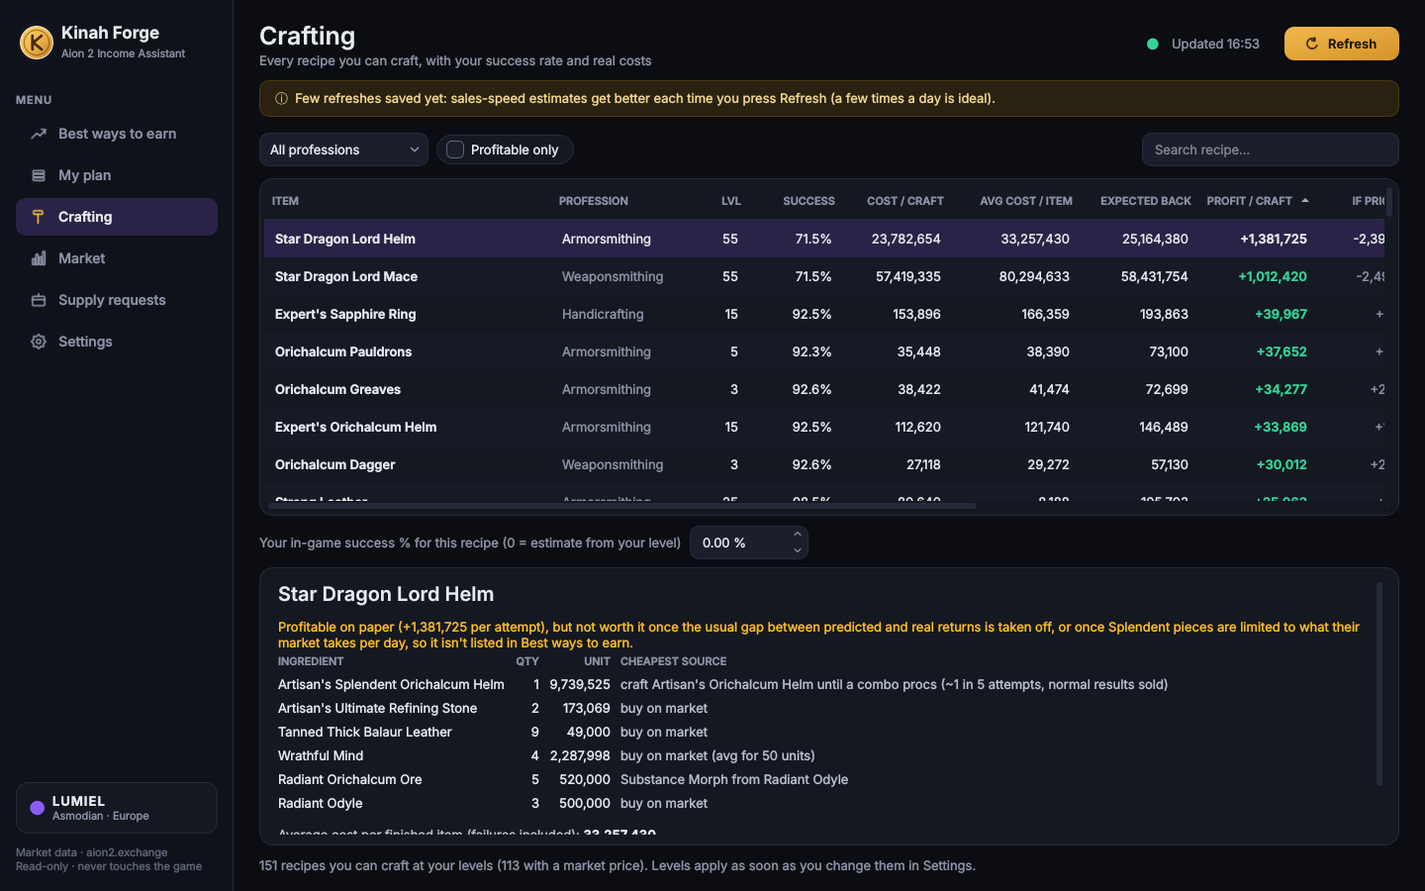
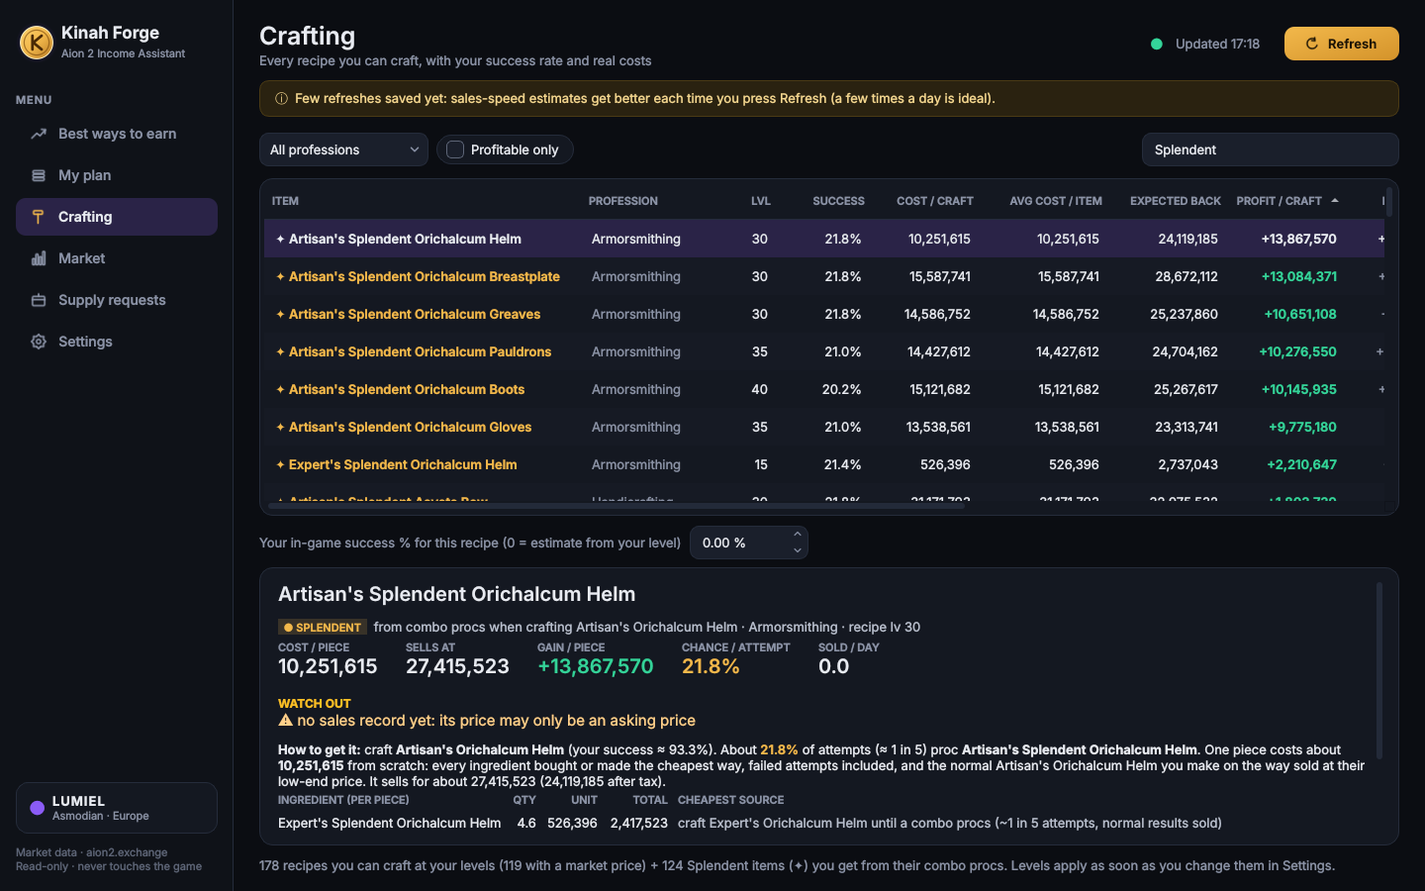
Income Assistant: every craft and every Splendent in the Crafting page
- Each Splendent you can get from combo procs (Splendent, Expert's Splendent,
  Artisan's Splendent, Splendent Star Dragon Lord ...) has its own row: chance
  per attempt, cost per piece from scratch, market price, gain per piece and
  the ingredient chain per piece.
- Recipes needing an ingredient nobody sells and no recipe makes (drops,
  NPC/quest "(Bound)" items) are listed with it named and left out of the
  cost; they never feed other costs and are never recommended.
- Unpriced crafts still get their Splendent's cost.
- Splendent items get price-history details on refresh.
- Audit: on 239 snapshots of five servers (39,160 item checks) every
  craftable or combo item on the market now appears.

Claude-Session: https://claude.ai/code/session_0159oSubnBYt4Xz9pRDyQSQx

diff --git a/income-assistant/aion_income/crafting.py b/income-assistant/aion_income/crafting.py
@@ -125,6 +125,7 @@ class CraftResult:
     combo_best: str = ""           # "sell" or "craft"
     combo_use_outlet: tuple = ()   # (next-tier item key, its success, its output qty, Splendents per craft)
     combo_use_ok: bool = True      # the next-tier item has a trusted price and a sales record
+    missing: list = field(default_factory=list)  # ingredients you can't buy or craft (drops, NPC/quest items)
     combo_cost: float | None = None   # kinah per Splendent made this way from scratch (normal results sold)
     combo_price: float | None = None  # what that Splendent sells for on the market (before tax)
 
@@ -133,6 +134,63 @@ class CraftResult:
         """Average kinah per finished item, failed attempts included."""
         made = self.success * self.recipe.out_qty
         return self.cost / made if made > 0 else float("inf")
+
+
+@dataclass
+class SplendentRow:
+    """A Splendent (combo) item shown in its own row: you get it by crafting `parent` and hoping
+    for the combo proc. Quacks like a CraftResult for the Crafting table."""
+    parent: CraftResult
+    name: str
+    out_key: str
+    success: float          # chance per attempt of the parent craft to give this Splendent
+    cost: float             # kinah per piece made from scratch (normal results sold on the way)
+    sell: float | None      # market price (before tax)
+    net: float | None       # what one piece brings after tax
+    sales_per_day: float | None
+    lines: list             # parent ingredients per piece (attempts per piece included)
+    is_splendent: bool = True
+    combo_name: str = ""
+    combo_cost: float | None = None
+    combo_price: float | None = None
+    combo_value: float = 0.0
+    combo_best: str = ""
+    combo_use_name: str = ""
+    combo_use: float | None = None
+    combo_sell: float | None = None
+    notes: list = field(default_factory=list)
+
+    @property
+    def recipe(self):
+        return self.parent.recipe
+
+    @property
+    def profession(self):
+        return self.parent.profession
+
+    @property
+    def priced(self) -> bool:
+        return self.net is not None
+
+    @property
+    def avg_cost_item(self) -> float:
+        return self.cost
+
+    @property
+    def ev(self) -> float:
+        return self.net or 0.0
+
+    @property
+    def profit(self) -> float:
+        return (self.net - self.cost) if self.net is not None else 0.0
+
+    @property
+    def profit_pessimistic(self) -> float:
+        return self.profit
+
+    @property
+    def attempts_per_piece(self) -> float:
+        return 1 / self.success if self.success > 0 else float("inf")
 
 
 class CraftContext:
@@ -201,9 +259,11 @@ class CraftContext:
                 best, used = b, alt
         return used, best
 
-    def run_inputs(self, r: Recipe, free: frozenset = frozenset()):
+    def run_inputs(self, r: Recipe, free: frozenset = frozenset(), allow_missing: bool = False):
         """Cost per attempt and ingredient lines; `free` items are ones you already own (e.g. a
-        Splendent from a combo proc) and cost nothing here."""
+        Splendent from a combo proc) and cost nothing here. With allow_missing, an ingredient that
+        can't be bought or crafted (a drop, an NPC or quest item) is listed at no cost instead of
+        making the recipe impossible."""
         cost = float(r.gold or 0)
         lines = []
         for key, qty, alt in r.inputs:
@@ -211,6 +271,11 @@ class CraftContext:
                 lines.append(Line(key, self.book.name(key), qty, 0.0, Source(0.0, "own", "your Splendent from a combo")))
                 continue
             used, src = self._offer(key, alt)
+            if src is None and allow_missing:
+                lines.append(Line(key, self.book.name(key), qty, 0.0,
+                                  Source(0.0, "missing", "not on the market and no recipe: NPC shop, drop or quest "
+                                                         "item, not included in the cost")))
+                continue
             if src is None:
                 return None
             if src.how == "bulk" and qty <= 3:
@@ -302,18 +367,24 @@ class CraftContext:
             return None
         run = self.run_inputs(r, free)
         if not run:
-            return None
+            run = self.run_inputs(r, free, allow_missing=True)  # still show it, with what's missing named
         cost, lines = run
+        missing = [l.name for l in lines if l.source.how == "missing"]
         out = self.stats.get(r.out)
         name = self._name(r.out)
         prof = PROFESSIONS.get(r.profession, r.profession)
         if not out or out.sell_price is None or out.expected_sell is None:
             # nobody has listed it in the history we have: show what it costs, not a profit
+            csrc = self.combo_source(r, cost, s) if r.combo else None
+            cst = self.stats.get(r.combo) if r.combo else None
             return CraftResult(
-                recipe=r, name=name, profession=prof, success=s, combo_rate=0.0, cost=cost, lines=lines,
-                p_fail=1 - s, p_plain=s, p_combo=0.0, plain_value=0.0, combo_value=0.0, ev=0.0, profit=0.0,
-                ev_pessimistic=0.0, profit_pessimistic=0.0, profit_plain_only=0.0, out_key=r.out, combo_key=None,
-                notes=["no market price for it yet"], priced=False, price_ok=False)
+                recipe=r, name=name, profession=prof, success=s,
+                combo_rate=combo_success(self.book, r, int(self.levels.get(r.profession, 0)), s), cost=cost,
+                lines=lines, p_fail=1 - s, p_plain=s, p_combo=0.0, plain_value=0.0, combo_value=0.0, ev=0.0,
+                profit=0.0, ev_pessimistic=0.0, profit_pessimistic=0.0, profit_plain_only=0.0, out_key=r.out,
+                combo_key=None, notes=["no market price for it yet"], priced=False, price_ok=False, missing=missing,
+                combo_name=self._name(r.combo) if r.combo else "", combo_cost=csrc.cost if csrc else None,
+                combo_price=cst.sell_price if cst else None)
         cs = combo_success(self.book, r, int(self.levels.get(r.profession, 0)), s)
         cp = r.combo_chance if r.combo else 0.0
         combo_st = self.stats.get(r.combo) if r.combo else None
@@ -345,6 +416,8 @@ class CraftContext:
             notes.append("Splendent version has no reliable price or use, counted as a normal item")
         if any(l.source.how == "npc" and "estimated" in l.source.detail for l in lines):
             notes.append("uses an NPC item with an estimated price")
+        if missing:
+            notes.append("cost leaves out " + ", ".join(missing) + " (not on the market, no recipe)")
         csrc = self.combo_source(r, cost, s) if r.combo else None
         return CraftResult(
             recipe=r, name=name, profession=prof,
@@ -355,7 +428,7 @@ class CraftContext:
             price_ok=out.trusted, combo_name=self._name(r.combo) if r.combo else "",
             combo_sell=sell, combo_use=use, combo_use_name=use_name, combo_best=best,
             combo_use_outlet=outlet if best == "craft" else (), combo_use_ok=use_ok or best != "craft",
-            combo_cost=csrc.cost if csrc else None,
+            combo_cost=csrc.cost if csrc else None, missing=missing,
             combo_price=(combo_st.sell_price if combo_st else None),
         )
 
@@ -398,6 +471,35 @@ class CraftContext:
             if k not in best or res.profit > best[k].profit:
                 best[k] = res
         return sorted(best.values(), key=lambda c: c.profit, reverse=True)
+
+    def splendent_rows(self, crafts: list[CraftResult]) -> list[SplendentRow]:
+        """One row per Splendent item you can get through a combo proc, priced from scratch."""
+        rows: dict[str, SplendentRow] = {}
+        for c in crafts:
+            r = c.recipe
+            if not r.combo or not r.combo_chance or c.combo_cost is None:
+                continue
+            p = c.success * r.combo_chance * combo_success(self.book, r, int(self.levels.get(r.profession, 0)),
+                                                             c.success)
+            if p <= 0:
+                continue
+            st = self.stats.get(r.combo)
+            sell = st.sell_price if st else None
+            net = st.expected_sell * self.keep if st and st.expected_sell else None
+            per = 1 / p
+            lines = [Line(l.key, l.name, l.qty * per, l.unit, l.source) for l in c.lines]
+            row = SplendentRow(parent=c, name=self._name(r.combo), out_key=r.combo, success=p, cost=c.combo_cost,
+                               sell=sell, net=net, sales_per_day=st.sales_per_day if st else None, lines=lines)
+            if c.missing:
+                row.notes.append("cost leaves out " + ", ".join(c.missing) + " (not on the market, no recipe)")
+            if st is None or st.sell_price is None:
+                row.notes.append("not on the market right now")
+            elif not st.trusted or not (st.sales_per_day or 0) > 0:
+                row.notes.append("no sales record yet: its price may only be an asking price")
+            cur = rows.get(r.combo)
+            if cur is None or row.cost < cur.cost:
+                rows[r.combo] = row
+        return sorted(rows.values(), key=lambda x: x.profit, reverse=True)
 
     def cheapest_source(self, key: str) -> Source | None:
         return self.acq.get(key)

diff --git a/income-assistant/aion_income/gui/main_window.py b/income-assistant/aion_income/gui/main_window.py
@@ -441,6 +441,43 @@ class MainWindow(QMainWindow):
         o = selected_row(self.best_view)
         self.best_detail.setHtml(self.opportunity_html(o) if o else self._empty_detail("Select a row."))
 
+    def splendent_html(self, sp) -> str:
+        """How to get a Splendent item and what one costs from scratch."""
+        p, c = sp.parent, sp
+        out = [f"<h2>{esc(sp.name)}</h2>",
+               f"<p>{pill_html('Splendent', theme.GOLD)}&nbsp;&nbsp;<span class='muted'>from combo procs when crafting "
+               f"{esc(p.name)} · {esc(p.profession.split(' (')[0])} · recipe lv {p.recipe.level}</span></p>",
+               "<table cellspacing=0><tr>",
+               stat_cell("Cost / piece", kinah(sp.cost), theme.TEXT),
+               stat_cell("Sells at", kinah(sp.sell) if sp.sell else "—", theme.TEXT),
+               stat_cell("Gain / piece", kinah(sp.profit, True) if sp.priced else "—",
+                         theme.GREEN if sp.profit > 0 else theme.RED),
+               stat_cell("Chance / attempt", f"{sp.success:.1%}", theme.GOLD),
+               stat_cell("Sold / day", self._sales_text(sp.out_key)),
+               "</tr></table>"]
+        if sp.notes:
+            out.append("<p><span class='warnhead'>WATCH OUT</span><br>"
+                       + "<br>".join(f"<span class='warn'>⚠ {esc(n)}</span>" for n in sp.notes) + "</p>")
+        out.append(
+            f"<p><b>How to get it:</b> craft <b>{esc(p.name)}</b> (your success ≈ {p.success:.1%}). About "
+            f"<span class='gold'>{sp.success:.1%}</span> of attempts (≈ 1 in {sp.attempts_per_piece:.0f}) proc "
+            f"<b>{esc(sp.name)}</b>. One piece costs about <b>{kinah(sp.cost)}</b> from scratch: every ingredient "
+            f"bought or made the cheapest way, failed attempts included, and the normal {esc(p.name)} you make on "
+            f"the way sold at their low-end price"
+            + (f". It sells for about {kinah(sp.sell)} ({kinah(sp.net)} after tax)." if sp.sell else ".")
+            + "</p>")
+        out.append("<table cellspacing=0><tr><th>INGREDIENT (PER PIECE)</th><th align=right>QTY</th>"
+                   "<th align=right>UNIT</th><th align=right>TOTAL</th><th>CHEAPEST SOURCE</th></tr>")
+        for line in sp.lines:
+            out.append(f"<tr><td>{esc(line.name)}</td><td align=right>{line.qty:,.1f}</td>"
+                       f"<td align=right>{kinah(line.unit)}</td><td align=right>{kinah(line.unit * line.qty)}</td>"
+                       f"<td class='muted'>{esc(line.source.detail)}</td></tr>")
+        out.append("</table>")
+        if c.parent.combo_best:
+            out.append(f"<p class='muted'>Its profit is also counted in {esc(p.name)}'s row (Best ways to earn) "
+                       f"when it has real buyers.</p>")
+        return "".join(out)
+
     def craft_extra_html(self, c) -> str:
         """Average cost per finished item, and what to do with Splendent pieces from combo procs."""
         out = [f"<p><span class='muted'>Average cost per finished item (failures included):</span> "
@@ -739,21 +776,27 @@ class MainWindow(QMainWindow):
         top.addWidget(self.craft_search)
         lay.addLayout(top)
         cols = [
-            Column("Item", lambda c: c.name.lower(), lambda c: c.name, width=290, bold=True),
+            Column("Item", lambda c: c.name.lower(), lambda c: ("✦ " + c.name) if getattr(c, "is_splendent", False) else c.name,
+                   width=320, bold=True, color=lambda c: theme.GOLD if getattr(c, "is_splendent", False) else None,
+                   tip=lambda c: (f"Splendent: you get it from combo procs when crafting {c.parent.name}"
+                                  if getattr(c, "is_splendent", False) else "")),
             Column("Profession", lambda c: c.profession, lambda c: c.profession.split(" (")[0], width=140,
                    color=lambda c: theme.MUTED),
             Column("Lvl", lambda c: c.recipe.level, align="right", width=60),
             Column("Success", lambda c: c.success, lambda c: f"{c.success:.1%}"
                    + (" ✎" if c.recipe.id in self.settings.overrides else ""), align="right", width=95,
                    color=lambda c: theme.VIOLET if c.recipe.id in self.settings.overrides else None,
-                   tip=lambda c: "Estimated from your level; set your in-game value below"),
+                   tip=lambda c: (f"Chance per {c.parent.name} attempt to get this Splendent (≈ 1 in "
+                                  f"{c.attempts_per_piece:.0f})" if getattr(c, "is_splendent", False)
+                                  else "Estimated from your level; set your in-game value below")),
             Column("Cost / craft", lambda c: c.cost, lambda c: kinah(c.cost), align="right"),
             Column("Avg cost / item", lambda c: c.avg_cost_item, lambda c: kinah(c.avg_cost_item), align="right",
                    width=130, tip=lambda c: "Average kinah per finished item, failed attempts included"),
             Column("Expected back", lambda c: c.ev, lambda c: kinah(c.ev) if c.priced else "no price", align="right",
                    width=120),
             Column("Profit / craft", lambda c: c.profit if c.priced else float("-inf"),
-                   lambda c: kinah(c.profit, True) if c.priced else "—", align="right", bold=True,
+                   lambda c: (kinah(c.profit, True) + (" *" if getattr(c, "missing", None) else "")) if c.priced else "—",
+                   align="right", bold=True,
                    color=lambda c: theme.GREEN if c.profit > 0 else theme.RED, width=120),
             Column("If prices dip", lambda c: c.profit_pessimistic if c.priced else float("-inf"),
                    lambda c: kinah(c.profit_pessimistic, True) if c.priced else "—",
@@ -851,13 +894,20 @@ class MainWindow(QMainWindow):
         self.override_spin.blockSignals(True)
         self.override_spin.setValue(self.settings.overrides.get(c.recipe.id, 0.0))
         self.override_spin.blockSignals(False)
+        if getattr(c, "is_splendent", False):
+            self.craft_detail.setHtml(self.splendent_html(c))
+            return
         op = next((o for o in self.analysis.ops if o.craft is c), None) if self.analysis else None
         if op:
             self.craft_detail.setHtml(self.opportunity_html(op))
         else:
             lines = "".join(f"<tr><td>{esc(l.name)}</td><td align=right>{l.qty}</td><td align=right>{kinah(l.unit)}</td>"
                             f"<td class='muted'>{esc(l.source.detail)}</td></tr>" for l in c.lines)
-            if not c.priced:
+            if c.missing:
+                verdict = (f"<p class='amber'>Needs {esc(', '.join(c.missing))}, which nobody sells on the market and "
+                           f"no recipe makes (an NPC shop, drop or quest item). The cost below leaves it out, so this "
+                           f"is only worth it if you already have it or get it cheaply.</p>")
+            elif not c.priced:
                 verdict = (f"<p class='amber'>No market price for it yet, so no profit estimate: cost "
                            f"{kinah(c.cost)} per attempt (success {c.success:.1%}).</p>")
             elif c.profit > 0:
@@ -1384,7 +1434,7 @@ class MainWindow(QMainWindow):
         a = self.analysis
         self.best_model.set_rows(a.ops)
         self._apply_best_filter()
-        self.craft_model.set_rows(a.crafts)
+        self.craft_model.set_rows(a.crafts + a.splendents)
         self._apply_craft_filter()
         secs = sorted({s.section for s in a.stats.values() if s.section})
         cur = self.market_section.currentData()
@@ -1401,7 +1451,8 @@ class MainWindow(QMainWindow):
         n_levels = any(self.settings.levels.values())
         self.craft_hint.setText(
             f"{len(a.crafts)} recipes you can craft at your levels ({sum(1 for c in a.crafts if c.priced)} with a "
-            f"market price). Levels apply as soon as you change them in Settings."
+            f"market price) + {len(a.splendents)} Splendent items (✦) you get from their combo procs. Levels apply "
+            f"as soon as you change them in Settings."
             if n_levels else "Set your crafting levels in Settings to see recipes.")
         self._update_plan()
         self._update_banner()

diff --git a/income-assistant/aion_income/engine.py b/income-assistant/aion_income/engine.py
@@ -130,6 +130,7 @@ class Analysis:
     ctx: CraftContext
     crafts: list
     ops: list
+    splendents: list = field(default_factory=list)  # Splendent items you get from combo procs, priced from scratch
 
 
 def faction_code(server: dict) -> str:
@@ -256,13 +257,15 @@ class Engine:
                 ordered.append(k)
         for res in sorted(a.crafts, key=lambda c: c.profit, reverse=True)[:30]:
             add(res.out_key)
-            if res.combo_key:
-                add(res.combo_key)
+            if res.recipe.combo:   # Splendent versions: big prices, need their own history
+                add(res.recipe.combo)
             for line in res.lines:
                 if line.source.how in ("buy", "bulk"):
                     add(line.key)
                 if line.source.how == "morph" and line.source.via:
                     add(line.source.via)
+        for sp in sorted(a.splendents, key=lambda s: -(s.sell or 0))[:25]:
+            add(sp.out_key)
         for od in {od for od, _ in a.ctx.book.morph.values()}:
             add(od)
         busy = sorted((s for s in a.stats.values() if s.ask and s.listings >= 3 and "(Bound)" not in s.name),
@@ -341,7 +344,7 @@ class Engine:
                            settings.overrides)
         crafts = ctx.evaluate_all()
         ops = all_opportunities(ctx, crafts)
-        return Analysis(data, stats, ctx, crafts, ops)
+        return Analysis(data, stats, ctx, crafts, ops, ctx.splendent_rows(crafts))
 
     def refresh(self, settings: Settings, progress=lambda msg, frac: None) -> Analysis:
         data = self.download(settings, progress)

diff --git a/income-assistant/tests/test_shopping.py b/income-assistant/tests/test_shopping.py
@@ -70,3 +70,17 @@ def test_splendent_shows_its_craft_from_scratch_cost_even_when_buying_is_cheaper
     assert made.how == "combo" and made.cost > 1_000
     res = next(c for c in ctx.evaluate_all() if c.out_key == "sword")
     assert res.combo_cost == pytest.approx(made.cost) and res.combo_price == 1_000
+
+
+def test_every_splendent_gets_its_own_row():
+    st = {"ore": stats("ore", "Pure Orichalcum Ore", 100), "sword": stats("sword", "Orichalcum Longsword", 2_000),
+          "ssword": stats("ssword", "Splendent Orichalcum Longsword", 90_000)}
+    ctx = ctx_for(st, [SWORD])
+    crafts = ctx.evaluate_all()
+    rows = ctx.splendent_rows(crafts)
+    assert [r.out_key for r in rows] == ["ssword"]
+    sp = rows[0]
+    s = ctx.chance(SWORD)
+    assert sp.success == pytest.approx(s * 0.25 * combo_success(ctx.book, SWORD, 3, s))
+    assert sp.cost == pytest.approx(ctx.made["ssword"].cost) and sp.profit == pytest.approx(sp.net - sp.cost)
+    assert sp.lines[0].qty == pytest.approx(SWORD.inputs[0][1] / sp.success)   # ingredients per piece

diff --git a/income-assistant/tests/test_crafting.py b/income-assistant/tests/test_crafting.py
@@ -130,11 +130,15 @@ def test_splendent_from_a_combo_is_used_for_the_next_tier_when_worth_more():
     assert res.combo_best == "sell" and res.combo_sell > res.combo_use
 
 
-def test_unbuyable_input_skips_recipe():
+def test_unbuyable_input_is_shown_but_never_recommended():
+    from aion_income.opportunities import craft_opportunity
     r = Recipe(**{**SWORD.__dict__, "inputs": [("elyos", 1, None)]})
     st = {"sword": stats("sword", "Orichalcum Longsword", 10_000)}
     ctx = CraftContext(mini_book([r]), st, {"blacksmithing": 3}, "dark", 0.88)
-    assert ctx.evaluate(r) is None
+    res = ctx.evaluate(r)
+    assert res.missing == ["Yggdrasil Thing"] and res.lines[0].source.how == "missing"
+    assert craft_opportunity(res, ctx) is None          # its cost is incomplete: never a recommendation
+    assert ctx.cheapest_source("sword") is None or ctx.cheapest_source("sword").how != "craft"  # never feeds others
 
 
 def test_crafted_intermediate_used_when_cheaper():

diff --git a/income-assistant/aion_income/opportunities.py b/income-assistant/aion_income/opportunities.py
@@ -226,8 +226,8 @@ def combo_outlet(res: CraftResult, ctx: CraftContext) -> float:
 
 
 def craft_opportunity(res: CraftResult, ctx: CraftContext) -> Opportunity | None:
-    if not res.priced or res.profit <= 0:
-        return None
+    if not res.priced or res.profit <= 0 or res.missing:
+        return None  # no price, no profit, or a cost we can't complete (an ingredient nobody sells)
     st = ctx.stats[res.out_key]
     outputs_per_attempt = res.success * res.recipe.out_qty
     market = st.sales_per_day

diff --git a/income-assistant/README.md b/income-assistant/README.md
@@ -206,6 +206,7 @@ Once you've refreshed for a week or two, run it on your own Lumiel history:
 | What you can sell at | Never above the usual price, never above the cheapest competing listing. |
 | Low stock / not selling | An item with fewer than 3 listings and no sales record, or listed for 12+ hours without selling, is never proof of a profit: crafts that end in one are shown but always Risky ("the price is a guess"). Spiked listings (far above usual) are ignored. |
 | Sales speed | The site's "units sold" counter covers 28 days, but on a market younger than that only the days so far, so the app measures how long the counter has run from its growth between your refreshes (it assumes 28 days until it can tell). Servers without the counter (like Lumiel) count listings that disappear between snapshots and refreshes; on Kaisinel real sales were 1–2× that count for gear and 6–200× for stackables (one listing holds many units), so the count is scaled by the cautious end of that. |
+| Every craft, every Splendent | The Crafting page lists every recipe you can make **and every Splendent (✦) you can get from its combo procs as its own row** (Splendent, Expert's Splendent, Artisan's Splendent, Splendent Star Dragon Lord …), with the chance per attempt, cost per piece from scratch, market price and gain per piece. Recipes needing an ingredient nobody sells and no recipe makes (Balaur leathers, Lesser Abyssal Manastones, "(Bound)" NPC/quest potions) are listed too, with that ingredient named and left out of the cost, and never recommended. Checked on 239 real snapshots of five servers (39,160 item checks): every craftable or combo item on the market appears. |
 | Splendent cost from scratch | For every Splendent you can make, the Crafting page shows what one costs to make yourself, starting from raw materials through every tier with its success and combo chances (each ingredient bought or made the cheapest way, normal results sold), next to its market price: green when it sells for more and people really buy it, amber when it's only listed that high. The Market page shows the same "make it yourself" cost for anything craftable. |
 | Splendent bases | Expert's, Artisan's and Dragon Lord recipes need the Splendent version of the tier below. When it can't be bought cheaper, its cost is what it takes to craft the lower tier until a combo procs (failed and normal results included, normal results sold at their low-end price), so those recipes are never skipped. The shopping list breaks it down into the lower-tier crafts and their materials. |
 | Combo procs | A success can proc the Splendent version (recipe combo chance × your combo rate). A Splendent is valued at the better of selling it (only if people buy it) or using it as the base for the next-tier craft (that craft's normal result after its other ingredients, failures and tax). Splendent pieces only count up to what their market, or the next-tier item's, takes per day. Each recipe says whether to sell them or craft with them. |
